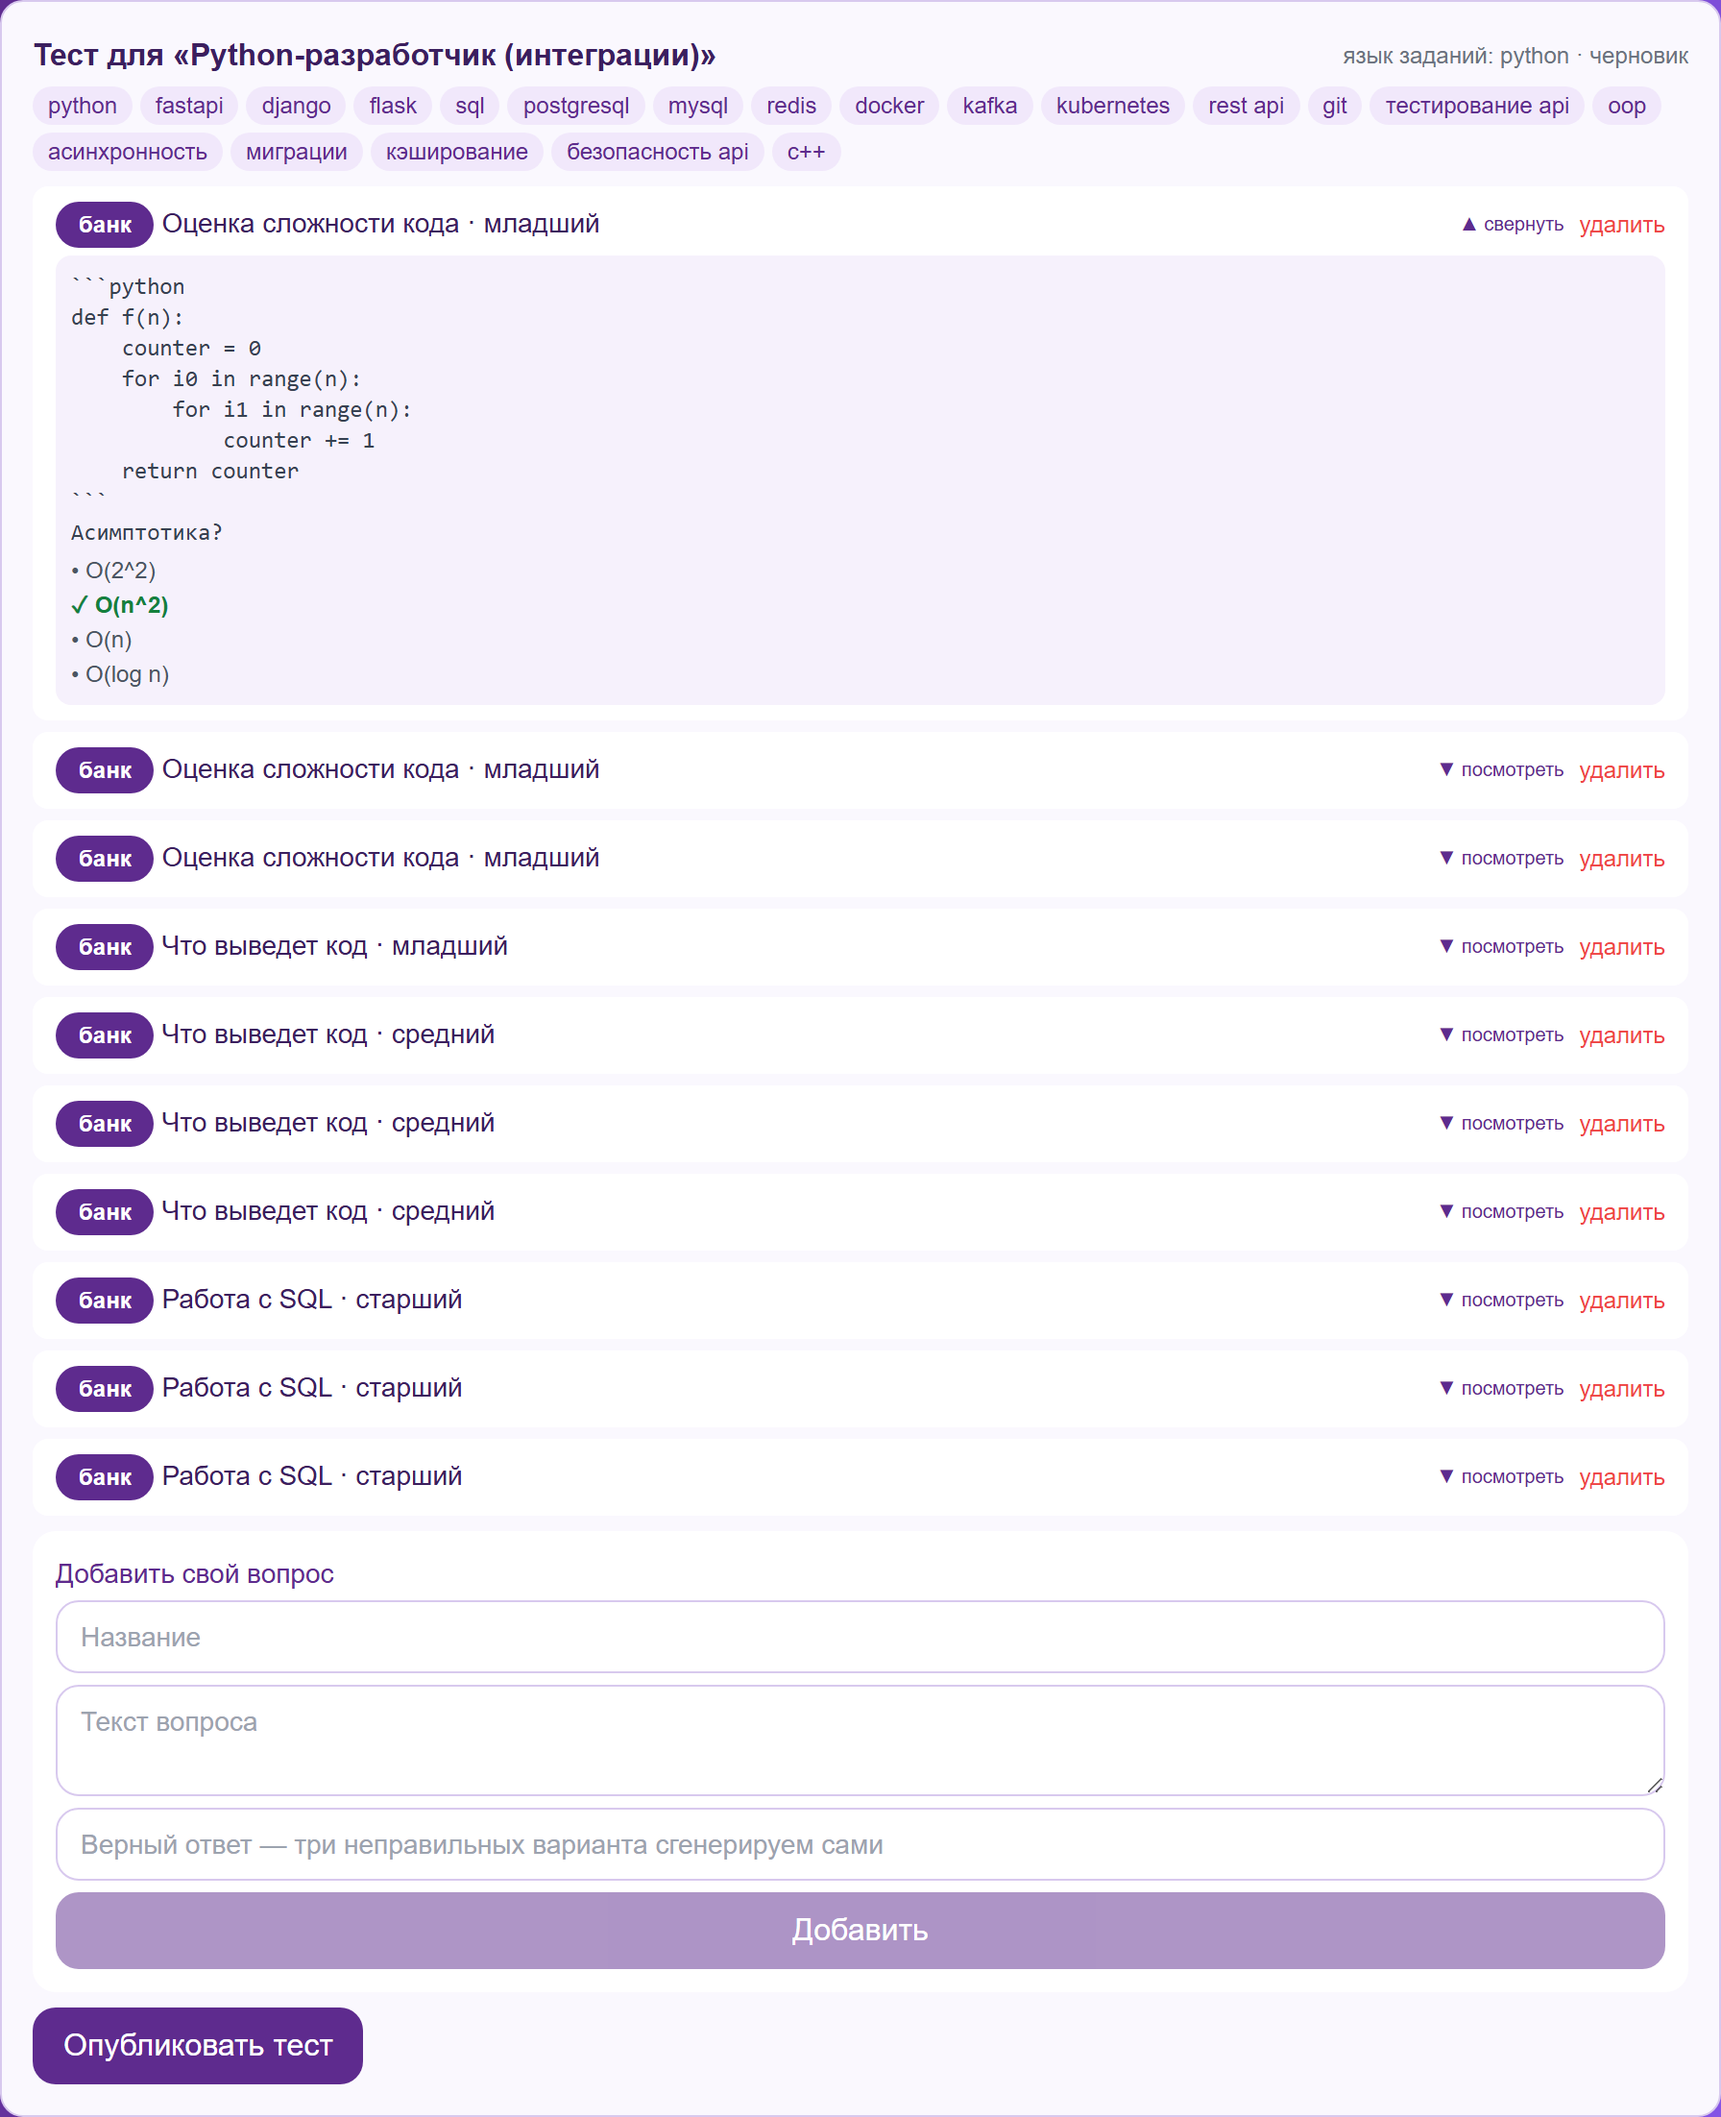
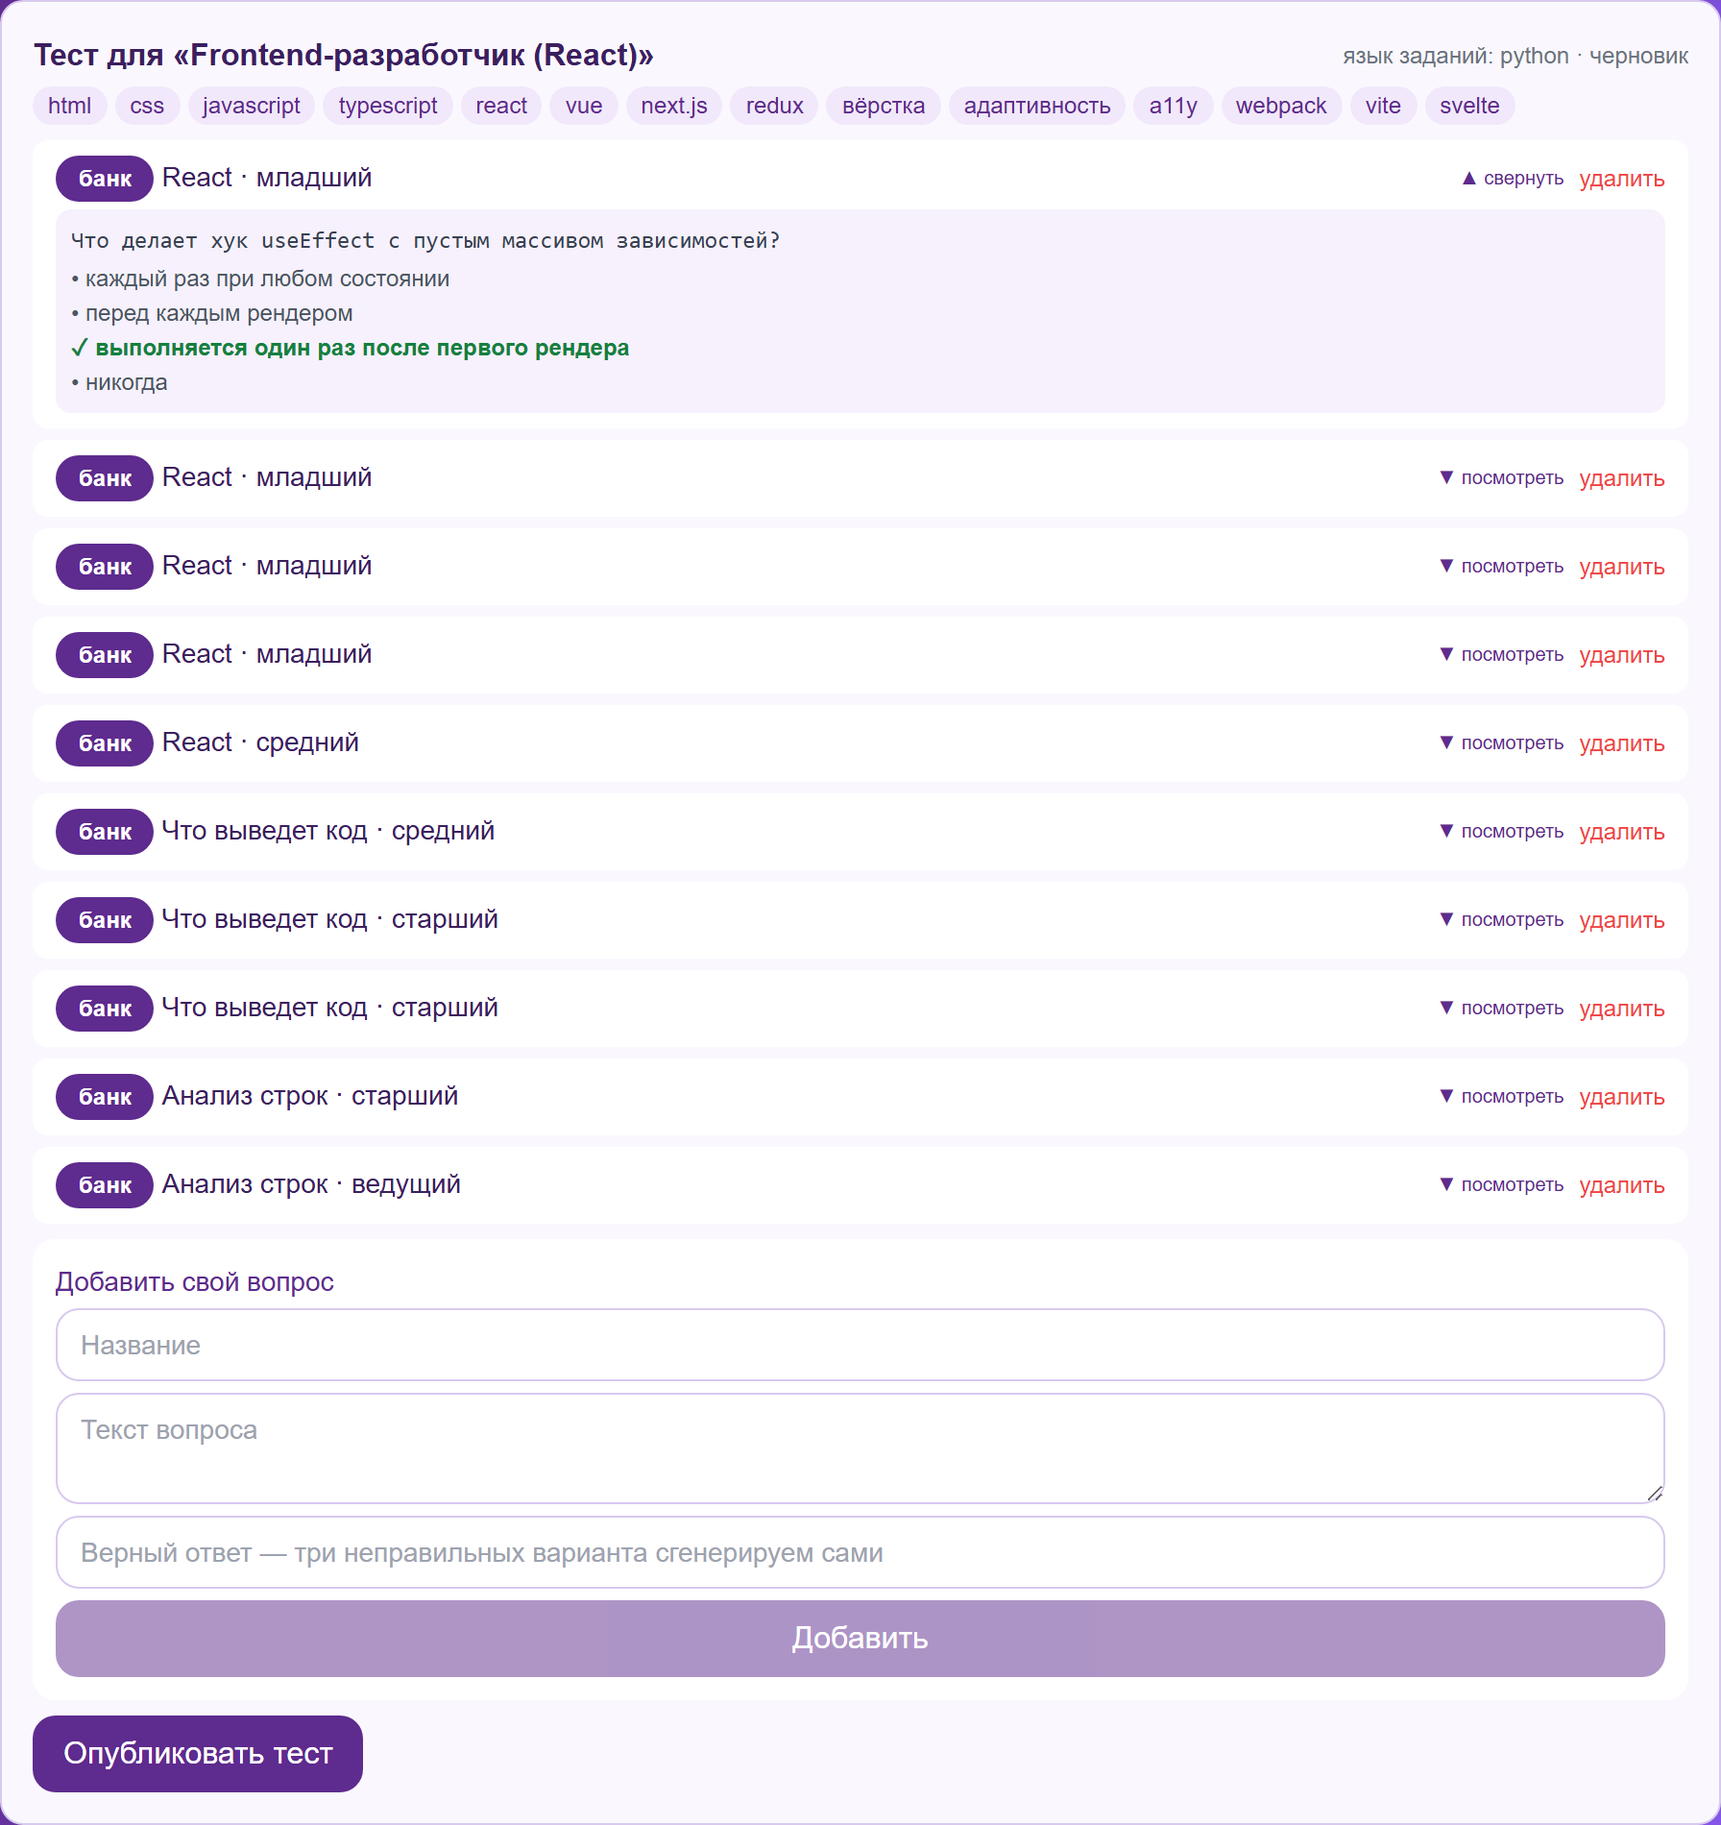
Убрана лишняя кнопка сохранения в шаге тестов: публикация сама ведёт в кабинет

diff --git a/frontend/app/employer/page.tsx b/frontend/app/employer/page.tsx
@@ -793,7 +793,6 @@ function DraftEditor({ vacancy, blueprint, allBlueprints, skills, onSaved }: any
 }
 
 function TestsStep({ vacancies, blueprints, specs, onDone }: any) {
-  const [saved, setSaved] = useState(false);
   return (
     <>
       {vacancies.length === 0 && (
@@ -805,12 +804,8 @@ function TestsStep({ vacancies, blueprints, specs, onDone }: any) {
       {vacancies.map((v: any) => (
         <DraftEditor key={v.id} vacancy={v} skills={specs} allBlueprints={blueprints}
           blueprint={findBlueprint(v, blueprints)}
-          onSaved={() => { setSaved(true); onDone(); }} />
+          onSaved={onDone} />
       ))}
-      <div className="flex items-center gap-3">
-        <Button variant="white" onClick={onDone}>Сохранить и перейти в личный кабинет</Button>
-        {saved && <span className="text-sm text-emerald-600">Тесты сохранены ✓</span>}
-      </div>
     </>
   );
 }
